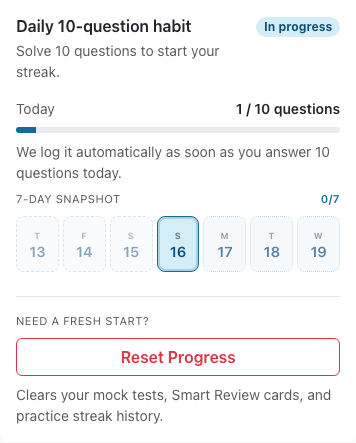
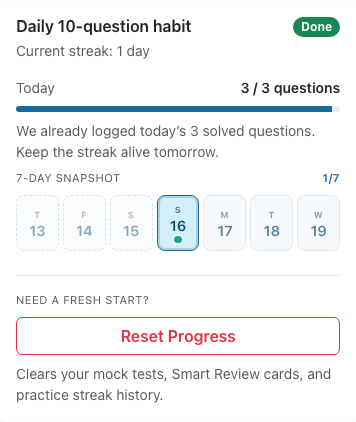
Showcase daily tracking in screenshot

diff --git a/tests/mock-test.spec.ts b/tests/mock-test.spec.ts
@@ -43,7 +43,7 @@ test.describe('Mock test experience', () => {
     await expect(reviewAlert).toBeVisible()
   })
 
-  test('increments the Daily 10-question habit by one per answered question', async ({ page }, testInfo) => {
+  test('increments the Daily 10-question habit by one per answered question', async ({ page }) => {
     await page.goto('/')
     await page.getByRole('button', { name: 'Start Mock Test' }).click()
 
@@ -57,10 +57,9 @@ test.describe('Mock test experience', () => {
     })
     await habitCard.scrollIntoViewIfNeeded()
     await expect(habitCard).toContainText('1 / 10 questions')
-    await captureLocatorScreenshot(habitCard, testInfo, 'habit-card.png')
   })
 
-  test('counts toward the Daily 10-question habit after finishing a set', async ({ page }) => {
+  test('counts toward the Daily 10-question habit after finishing a set', async ({ page }, testInfo) => {
     const practiceGoal = 3
     const questionCount = 3
     await page.goto(`/?practiceGoal=${practiceGoal}&mockQuestions=${questionCount}`)
@@ -95,5 +94,8 @@ test.describe('Mock test experience', () => {
     await expect(habitCard).toContainText(
       `We already logged today’s ${practiceGoal} solved questions.`,
     )
+    const metDay = habitCard.locator('.practice-calendar .practice-day--met')
+    await expect(metDay).toHaveCount(1, { timeout: 15000 })
+    await captureLocatorScreenshot(habitCard, testInfo, 'habit-card.png')
   })
 })
